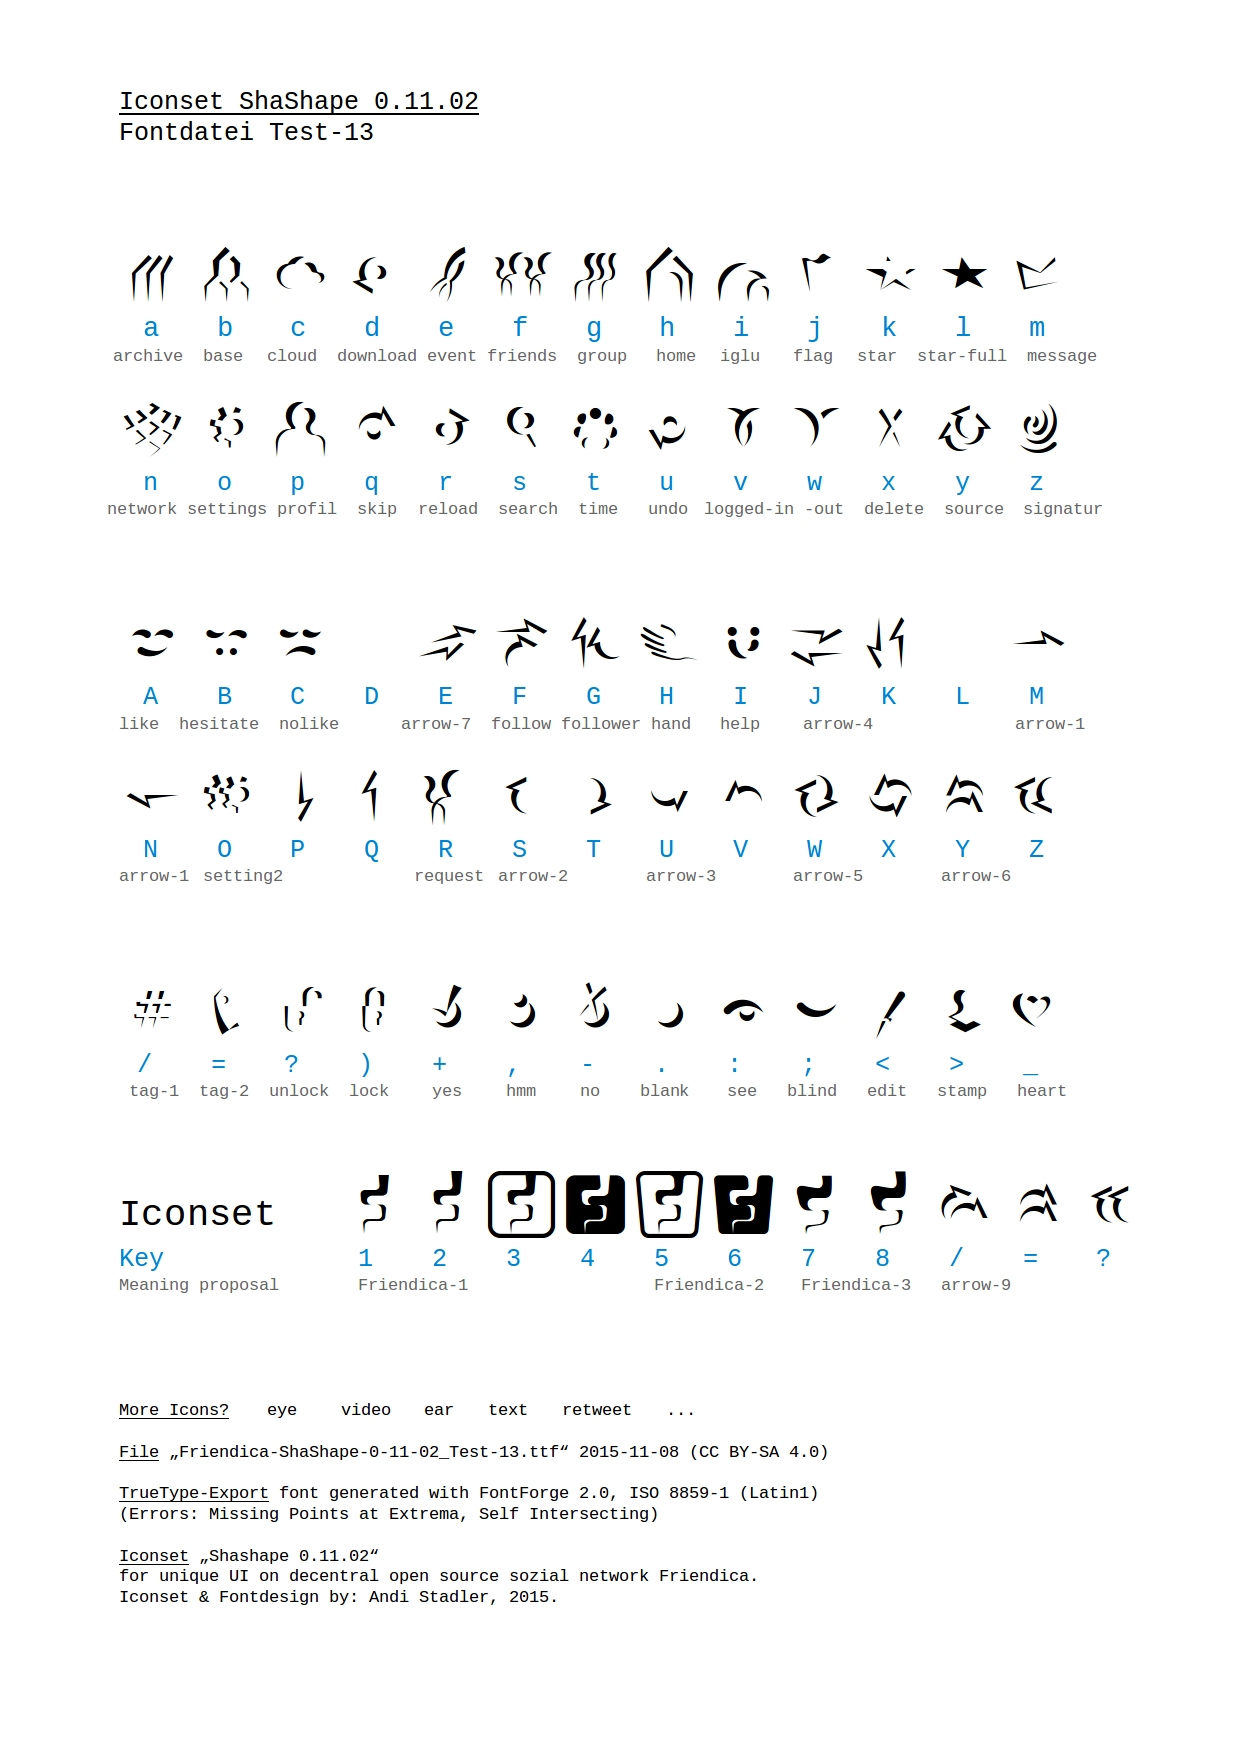
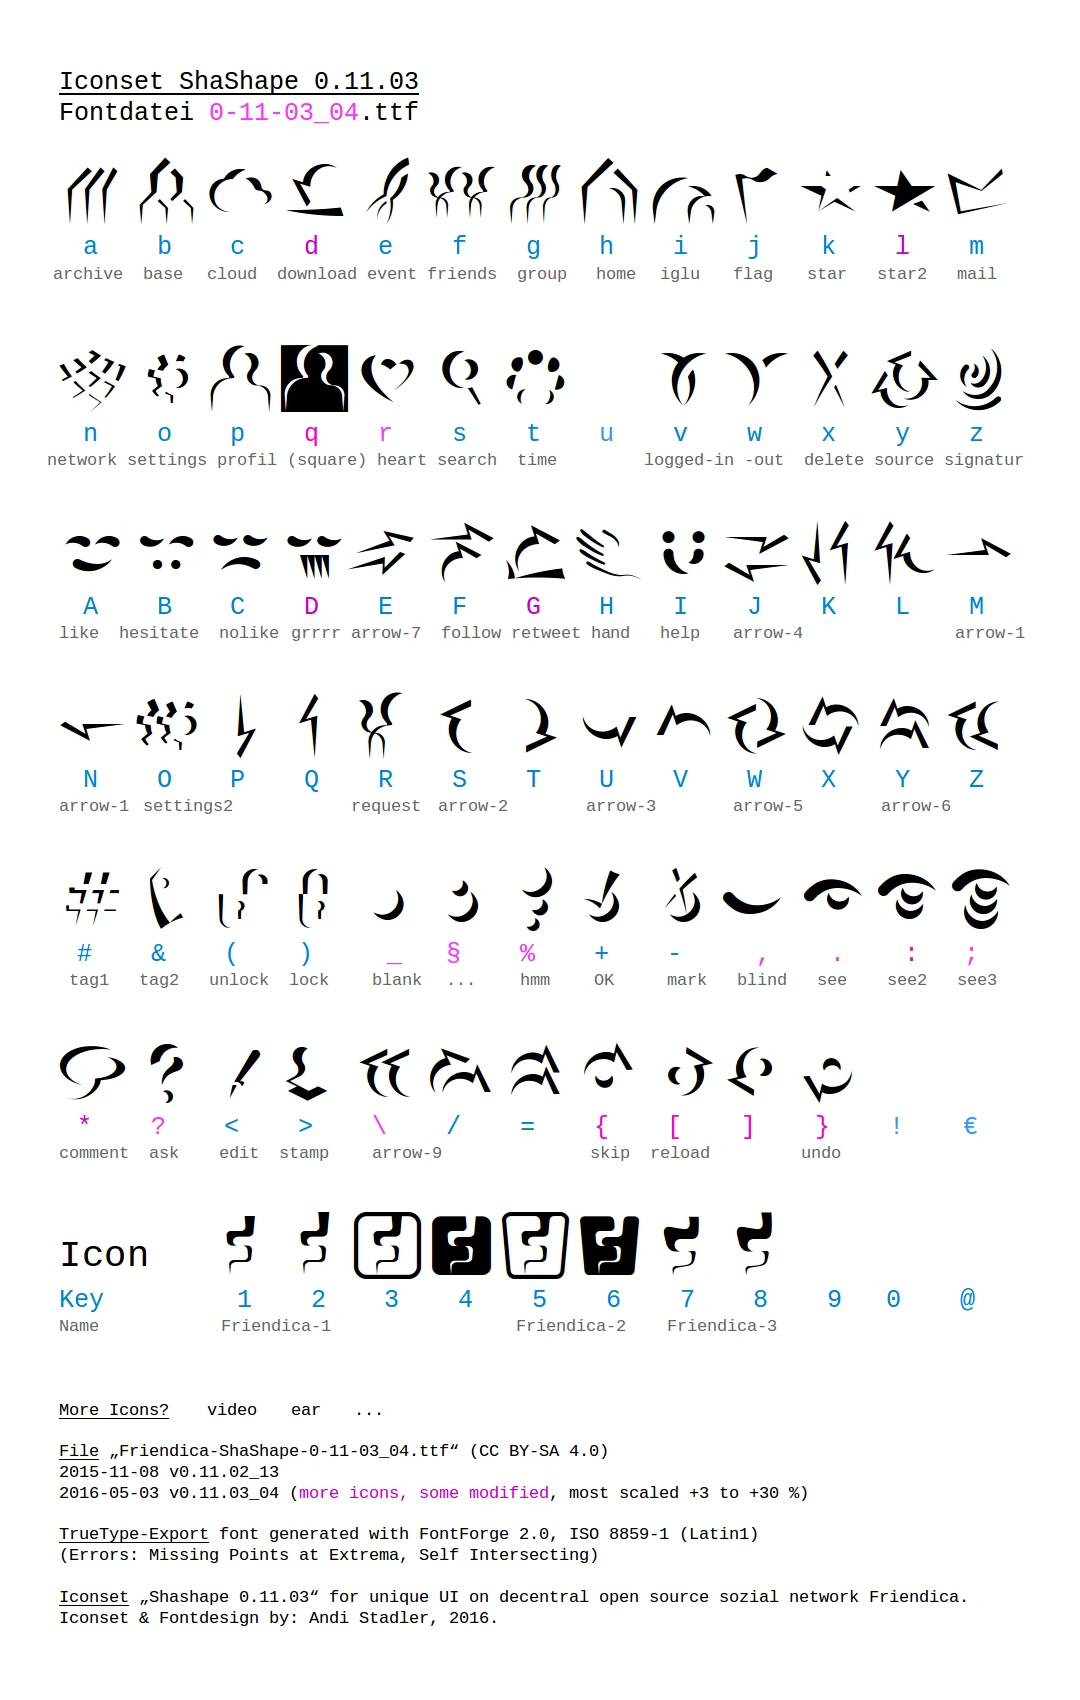
ShaShape font updated

diff --git a/view/fonts/shashape.css b/view/fonts/shashape.css
@@ -62,10 +62,10 @@
 .shashape.profile:before{
     content: "p";
 }
-.shashape.skip:before{
+.shashape.profileneg:before{
     content: "q";
 }
-.shashape.reload:before{
+.shashape.heard:before{
     content: "r";
 }
 .shashape.search:before{
@@ -73,9 +73,6 @@
 }
 .shashape.time:before{
     content: "t";
-}
-.shashape.undo:before{
-    content: "u";
 }
 .shashape.logout:before,
 .shashape.logged-in:before{
@@ -104,17 +101,16 @@
 .shashape.nolike:before{
     content: "C";
 }
-/* uppercase D is not defined at the moment
- .shashape.hash:before{
+.shashape.grrrr:before{
     content: "D";
-} */
+}
 .shashape.arrow7:before{
     content: "E";
 }
 .shashape.follow:before{
     content: "F";
 }
-.shashape.follower:before{
+.shashape.retweet:before{
     content: "G";
 }
 .shashape.hand:before{
@@ -129,10 +125,9 @@
 .shashape.arrow-updown:before{
     content: "K";
 }
-/* uppercase L is not defined at the moment
-.shashape.lock:before{
+.shashape.arrow-sideup:before{
     content: "L";
-} */
+}
 .shashape.arrow-left:before{
     content: "M";
 }
@@ -180,31 +175,42 @@
     content: "#";
 }
 .shashape.tag:before{
-    content: "=";
+    content: "&";
 }
 .shashape.lock-open:before{
-    content: "?";
+    content: "(";
 }
 .shashape.lock-closed:before{
     content: ")";
 }
+.shashape.blank:before {
+    content: "_";
+}
+.shashape.ellipsis:before {
+    content: "§";
+}
+.shashape.ok.before,
 .shashape.yes:before{
     content: "+";
 }
 .shashape.hmm:before{
-    content: ",";
+    content: "%";
 }
+.shashape.mark:before,
 .shashape.no:before{
     content: "-";
 }
-.shashape.blank:before{
+.shashape.see:before{
     content: ".";
 }
-.shashape.see:before{
+.shashape.see2:before{
     content: ":";
 }
-.shashape.blind:before{
+.shashape.see3:before{
     content: ";";
+}
+.shashape.blind:before{
+    content: ",";
 }
 .shashape.edit:before{
     content: "<";
@@ -212,7 +218,21 @@
 .shashape.stamp:before{
     content: ">";
 }
-.shashape.heart:before{
-    content: "_";
+.shashape.comment:before {
+    content: "*";
 }
-
+.shashape.ask:before {
+    content: "?";
+}
+.shashape.skip:before {
+    content: "{";
+}
+.shashape.reload:before {
+    content: "[";
+}
+.shashape.reloadreverse:before {
+    content: "]";
+}
+.shashape.undo:before {
+    content: "]";
+}
